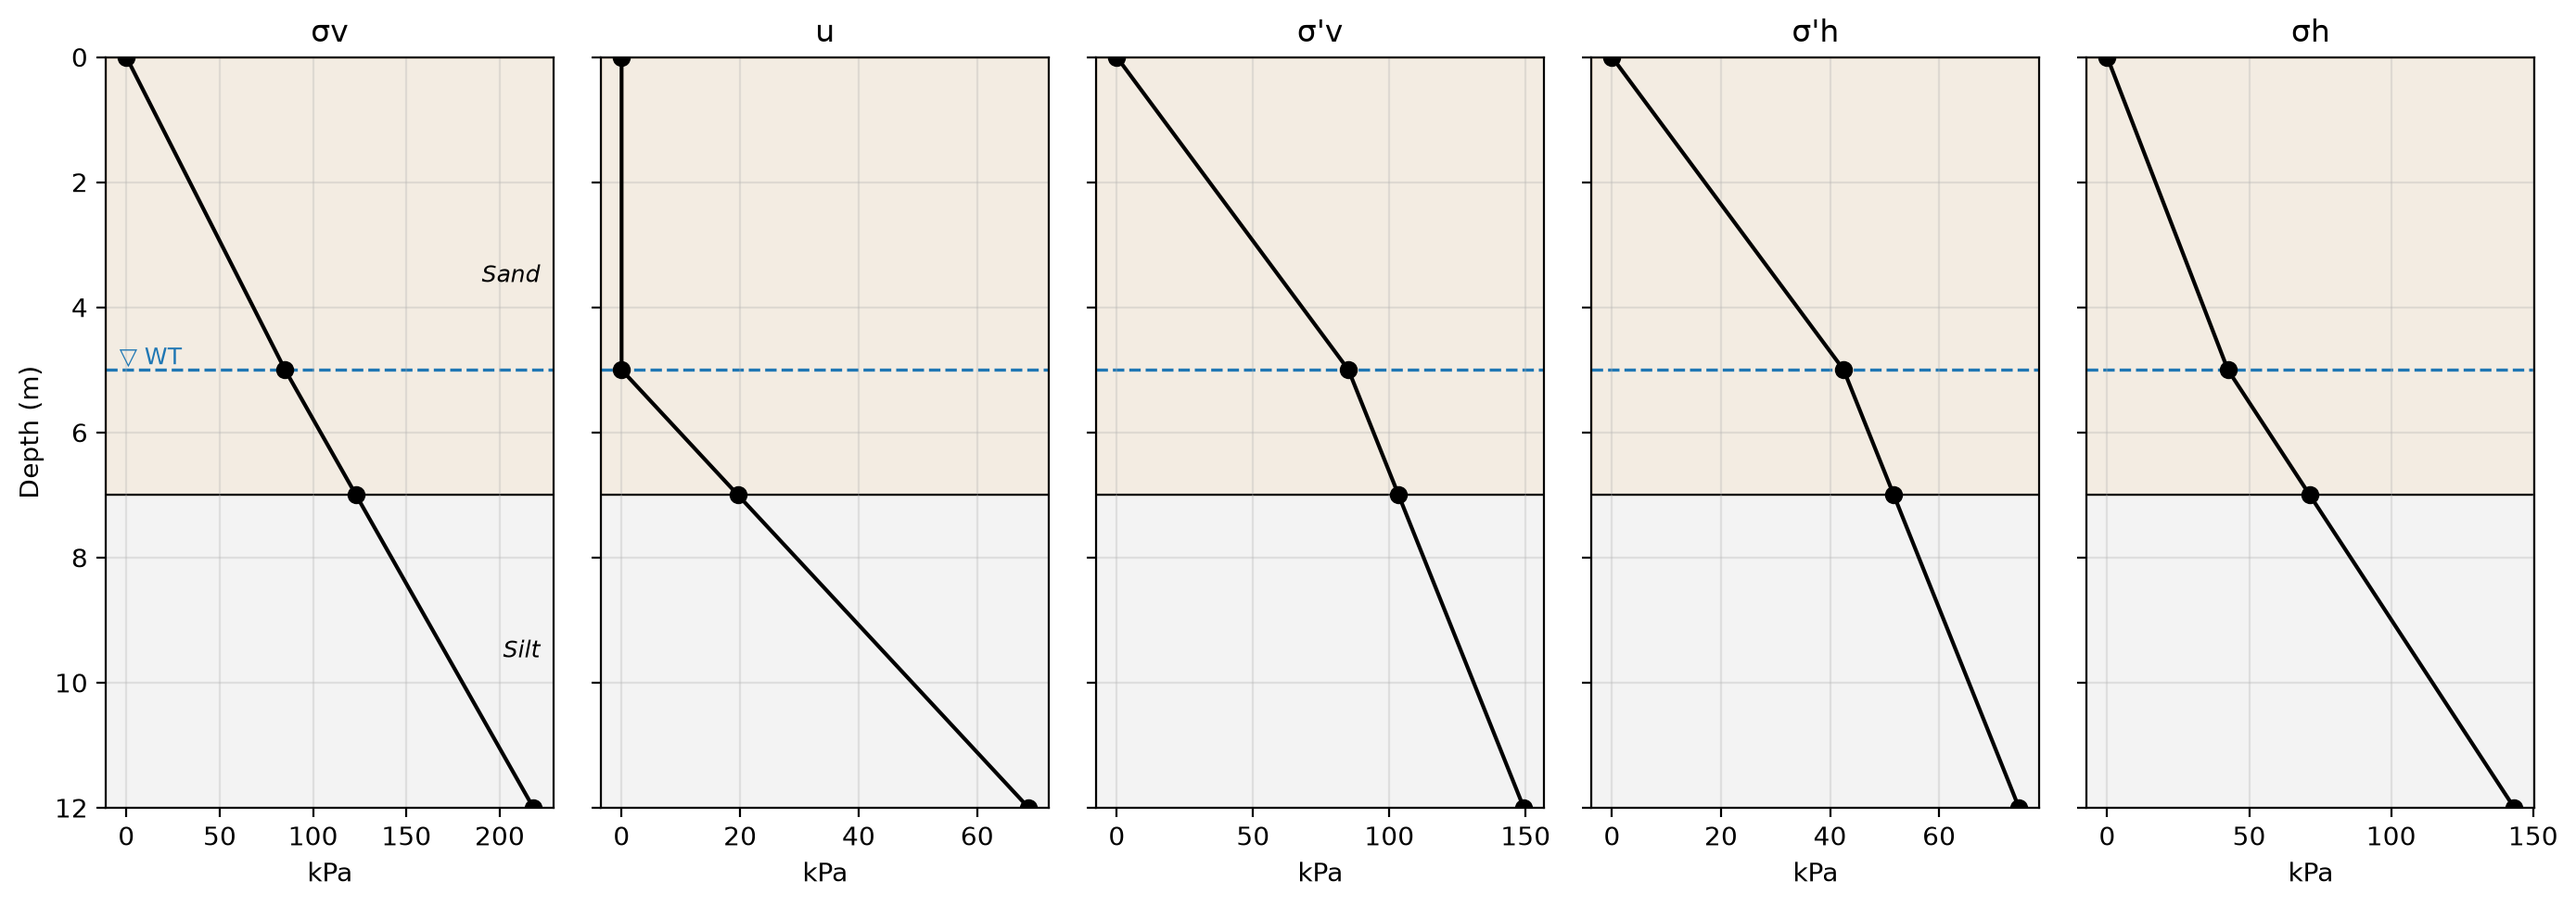
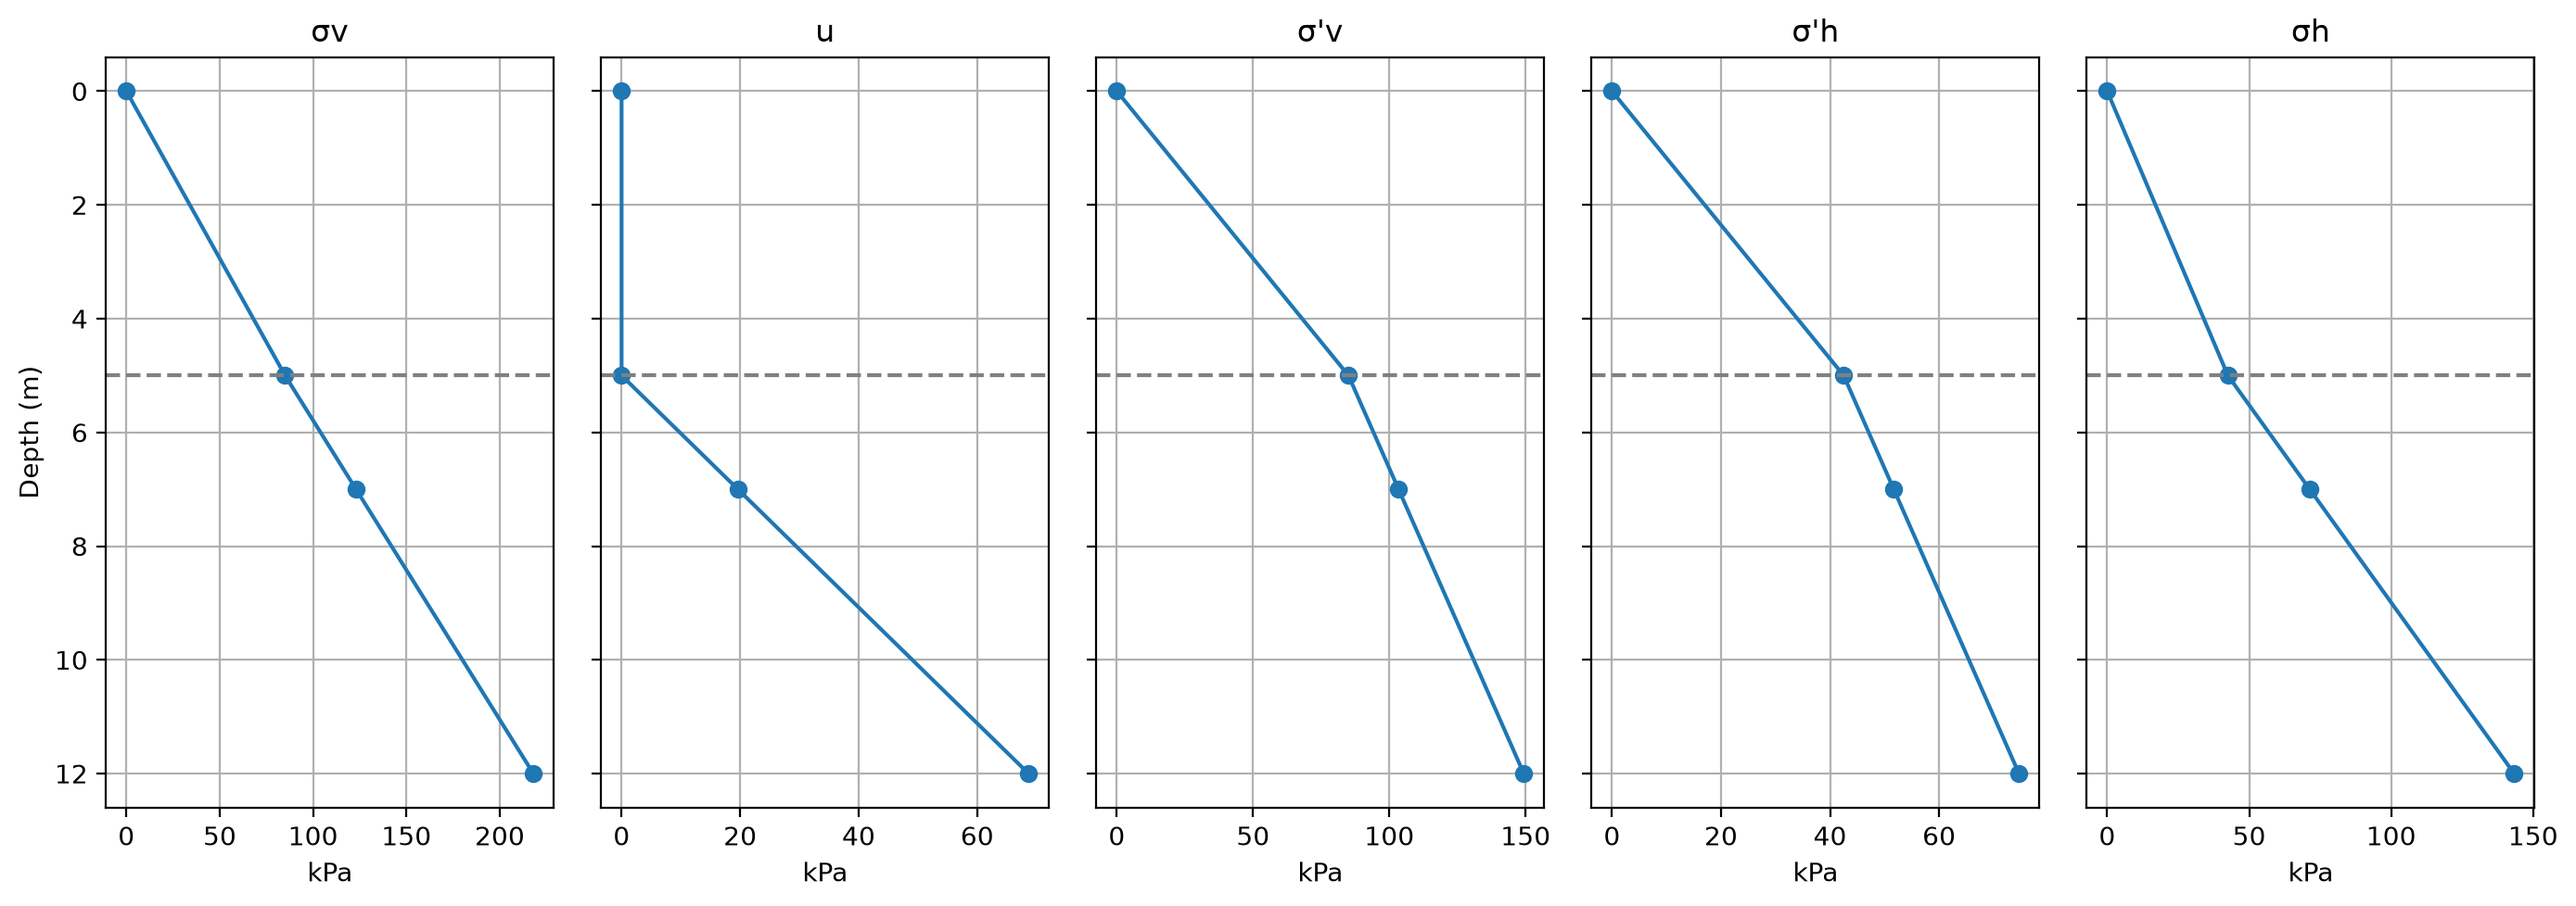
updated main function to create separate plots for hw submission vs github writeup

diff --git a/hw6/code/effective_stress.py b/hw6/code/effective_stress.py
@@ -34,16 +34,16 @@ def horizontal_stress(z, water_table, k0, sublayers):
     return effective_horizontal(z, k0, water_table, sublayers) + u
 
 
-def plot_stresses_plain(depths, water_table, k0):
+def plot_stresses_plain(depths, water_table, k0, sublayers):
     ''' Simple plot for submitting hw. '''
     z = list(depths.values())
 
     quantities = [
-        ([vertical_stress(d) for d in z],                        'σv'),
+        ([vertical_stress(d, sublayers) for d in z],                        'σv'),
         ([pore_pressure(d, water_table) for d in z],             'u'),
-        ([effective_stress(d, water_table) for d in z],          "σ'v"),
-        ([effective_horizontal(d, k0, water_table) for d in z],  "σ'h"),
-        ([horizontal_stress(d, water_table, k0) for d in z],     'σh'),
+        ([effective_stress(d, water_table, sublayers) for d in z],          "σ'v"),
+        ([effective_horizontal(d, k0, water_table, sublayers) for d in z],  "σ'h"),
+        ([horizontal_stress(d, water_table, k0, sublayers) for d in z],     'σh'),
     ]
 
     fig, axes = plt.subplots(1, 5, sharey=True, figsize=(14, 5))
@@ -58,7 +58,7 @@ def plot_stresses_plain(depths, water_table, k0):
     axes[0].set_ylabel('Depth (m)')
     axes[0].invert_yaxis()
     fig.tight_layout()
-    plt.show())
+    return fig
 
 def plot_stresses(depths, water_table, k0, sublayers, soils):
     '''Plot for writeup. Displays water table and soil layers, including shading. '''
@@ -101,22 +101,34 @@ def plot_stresses(depths, water_table, k0, sublayers, soils):
     fig.tight_layout()
     return fig
 
-def main(depths, k0, water_table, sublayers, soils, save_plot=False, filename='stresses_plot.png'):
 
+def print_table(depths, k0, water_table, sublayers):
     print(f"{'Pt':<4}{'z (m)':>6}{'σ (kPa)':>10}{'u (kPa)':>10}{'σ\' (kPa)':>11}{'σ\'h (kPa)':>11}{'σh (kPa)':>10}")
     for location, z in depths.items():
         print(f"{location:<4}{z:>6}{vertical_stress(z, sublayers):>10.2f}"
               f"{pore_pressure(z, water_table):>10.2f}{effective_stress(z, water_table, sublayers):>11.2f}"
               f"{effective_horizontal(z, k0, water_table, sublayers):>11.2f}{horizontal_stress(z, water_table, k0, sublayers):>10.2f}")
 
-    fig = plot_stresses(depths, water_table, k0, sublayers, soils)
+def save_figure(fig, filename):
+    out_dir = Path('figures')
+    out_dir.mkdir(exist_ok=True)
+    fig.savefig(out_dir / filename, dpi=200, bbox_inches='tight')
 
-    if save_plot:
-        out_dir = Path('figures')
-        out_dir.mkdir(exist_ok=True)
-        fig.savefig(out_dir / filename, dpi=200, bbox_inches='tight')
+
+
+def main(depths, k0, water_table, sublayers, soils, problem, save_plots=False):
+    print(f"\n{problem}")
+    print_table(depths, k0, water_table, sublayers)
+
+    fig_plain = plot_stresses_plain(depths, water_table, k0, sublayers)
+    fig_layers = plot_stresses(depths, water_table, k0, sublayers, soils)
+
+    if save_plots:
+        save_figure(fig_plain, f'{problem}_stresses_plain.png')
+        save_figure(fig_layers, f'{problem}_stresses_layers.png')
 
     plt.show()
+
 
 
     
@@ -133,4 +145,23 @@ if __name__ == "__main__":
     ('Sand', 0, 7, 'tan'),
     ('Silt', 7, 12, 'lightgray')]
 
-    main(depths, k0, water_table, sublayers, soils, save_plot=True, filename='problem1_stresses.png')
+    main(depths, k0, water_table, sublayers, soils, problem="Problem 1", save_plots=False)
+
+    depths = {'A': 0, 'B': 4, # water table
+          'C': 6, 'D': 10, 'E': 15} # depths in meters
+    water_table =  4
+
+    sublayers = [
+        (0, 4, 17.8), # gravel above WT
+        (4, 6, 18.5), # gravel below WT
+        (6, 10, 19.5), # sand below WT
+        (10, 15, 19.0) # sandy gravel below WT
+    ]
+
+    soils =[
+        ('Gravel', 0, 6, 'lightblue'),
+        ('Sand', 6, 10, 'tan'),
+        ('Sandy Gravel', 10, 15, 'lightgray')
+    ]
+
+    main(depths, k0, water_table, sublayers, soils, problem="Problem 2", save_plots=True)
